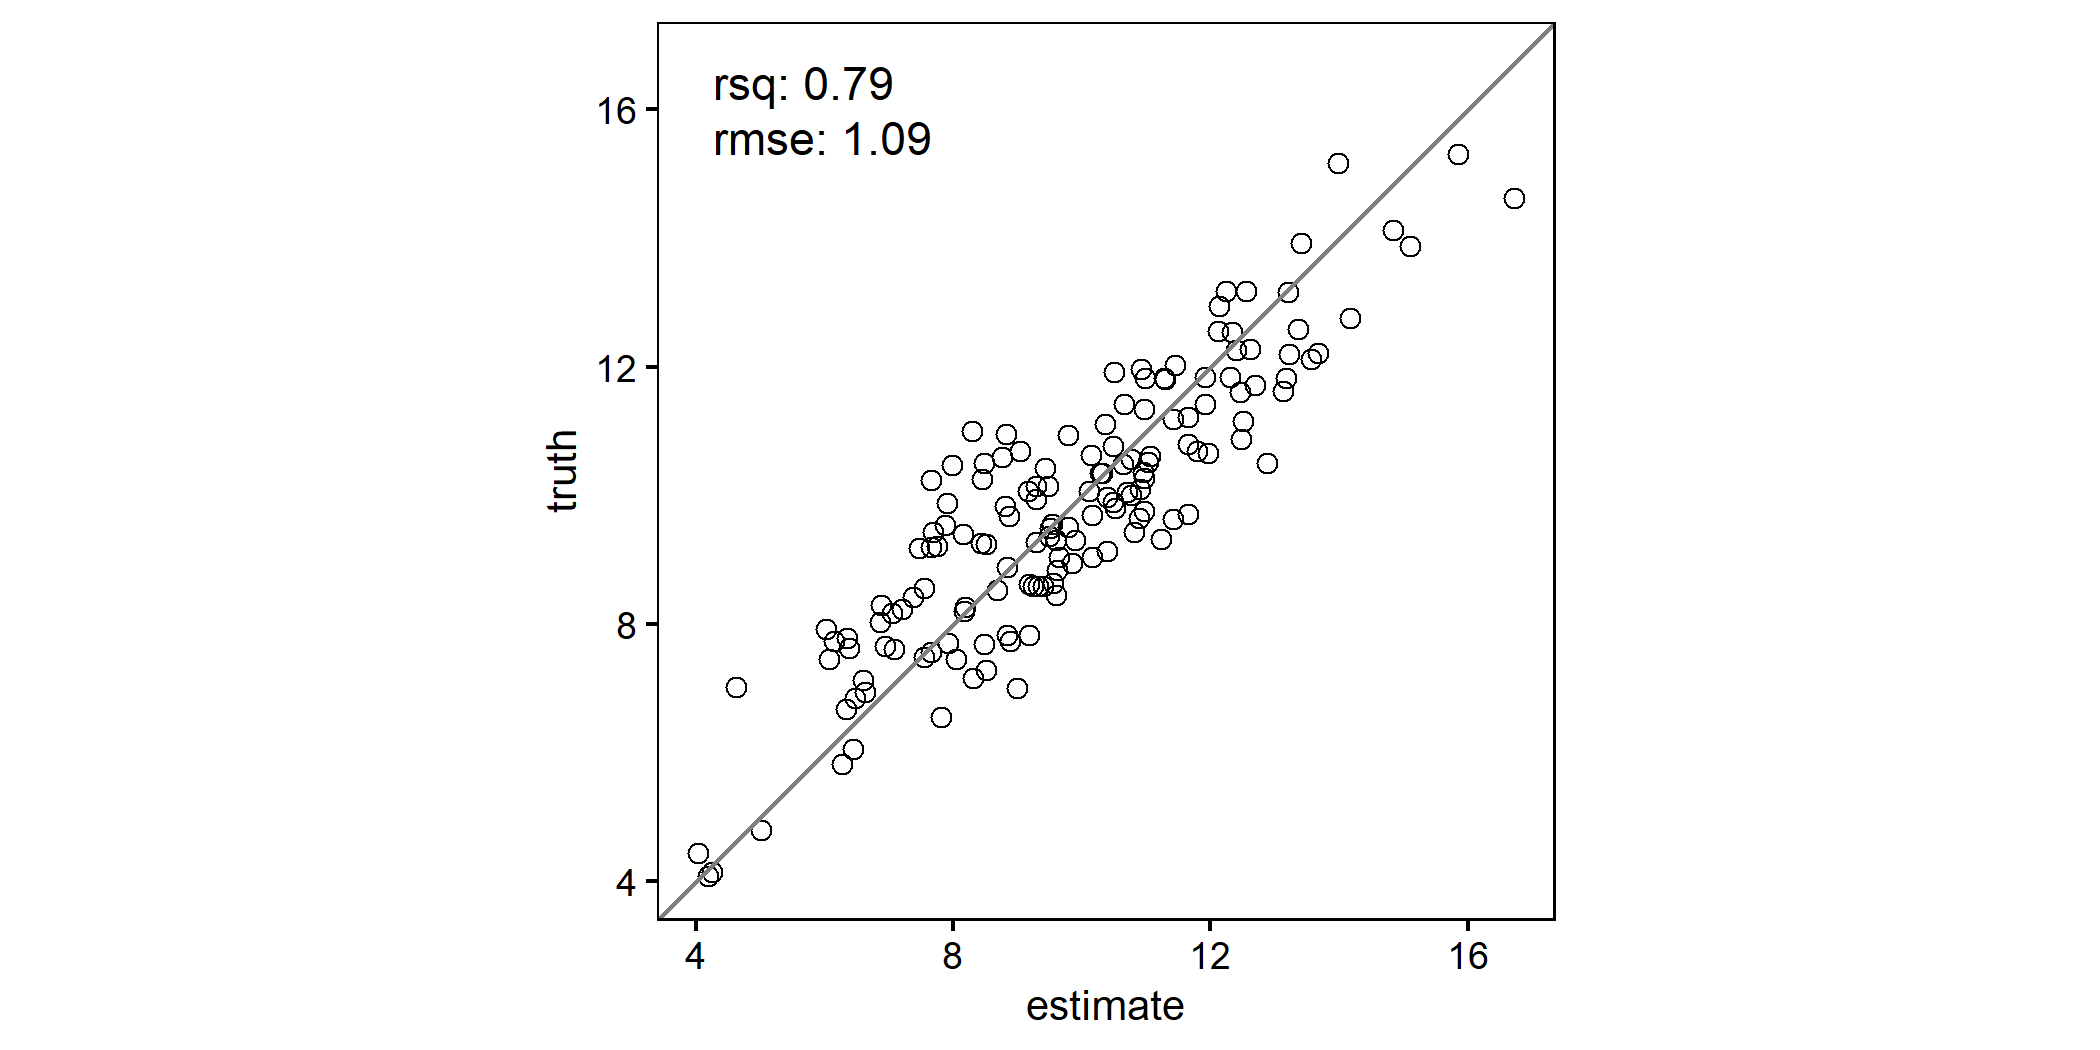
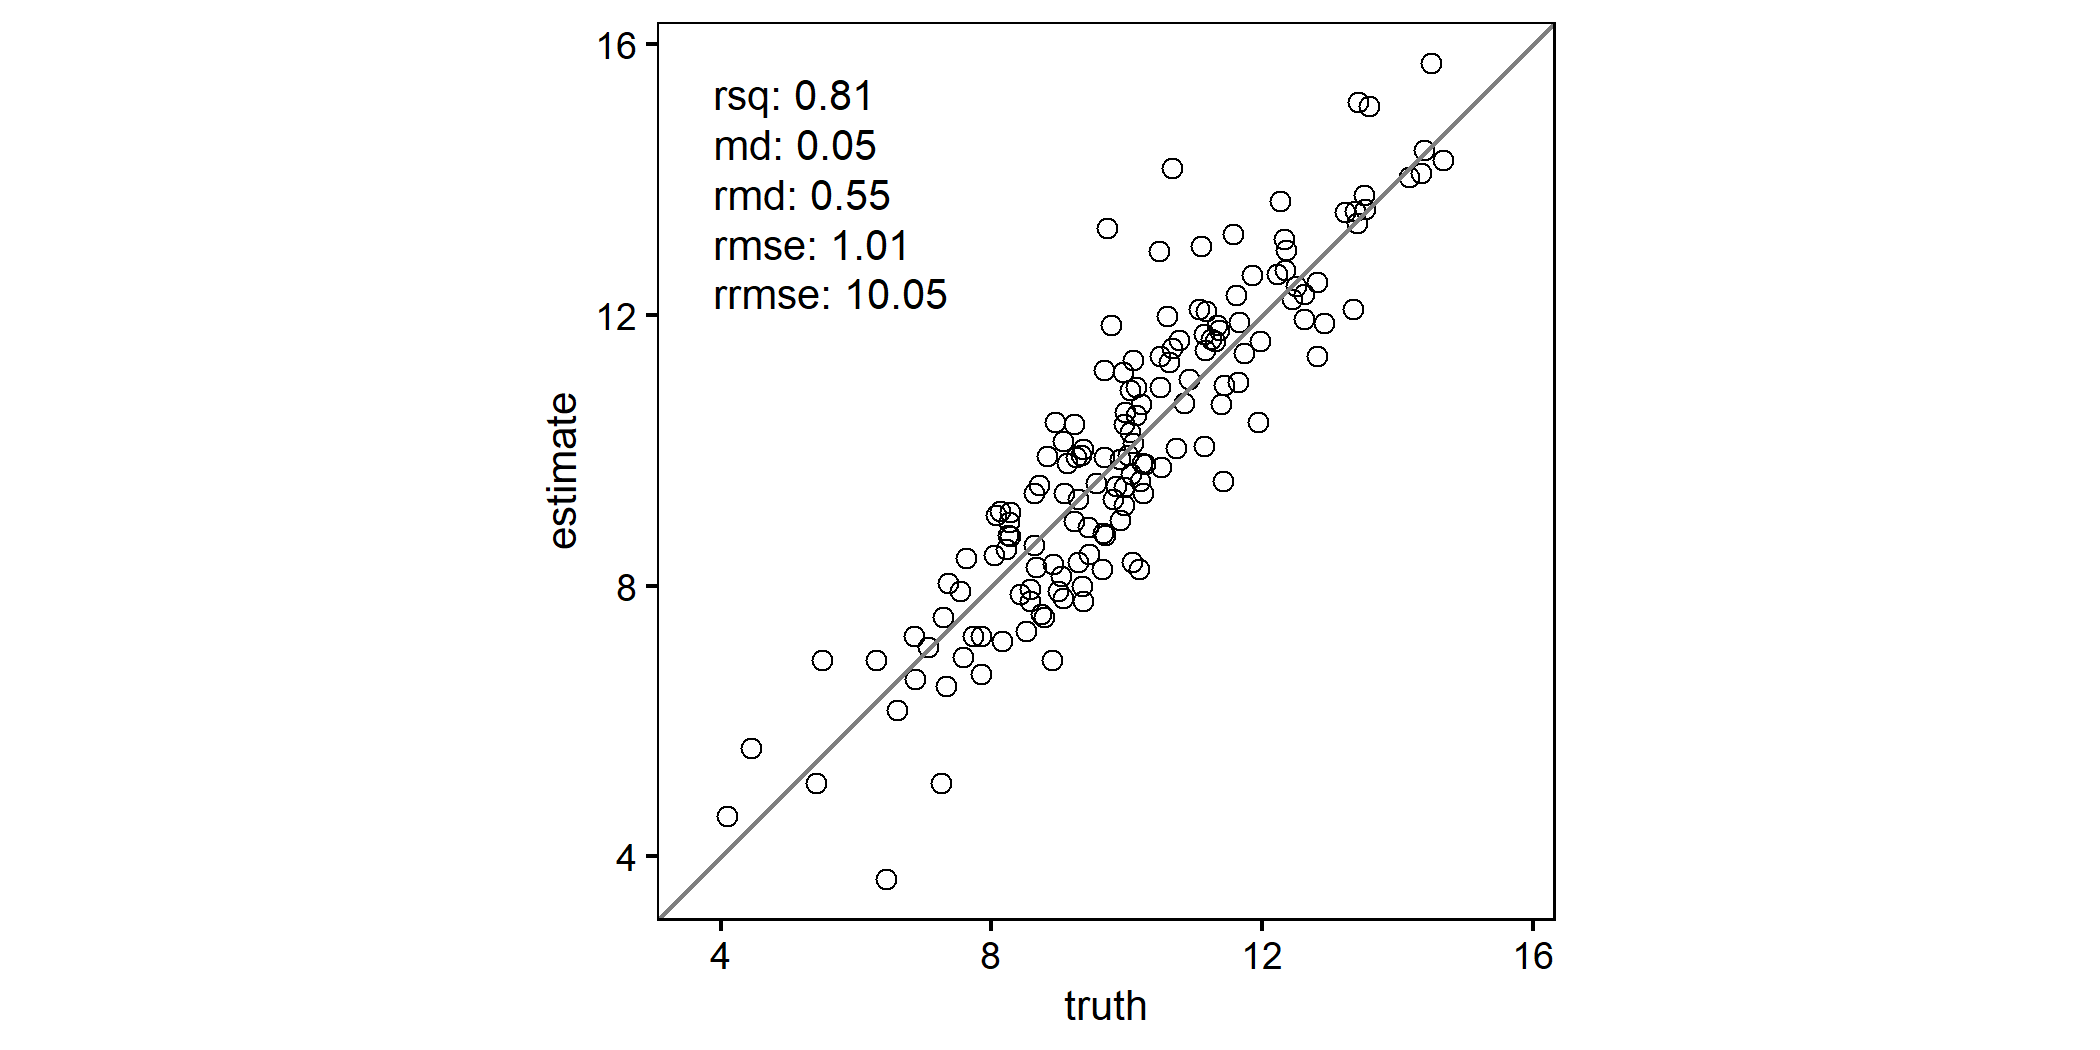
site rebuilt to include changes in readme

diff --git a/README.md b/README.md
@@ -19,11 +19,11 @@ version that would meet these specific needs:
 
 - Ensure the plot is always square.
 - Include a 1:1 reference line.
-- Display “predicted” values on the x-axis.
 - Provide an optional text panel showing agreement statistics, allowing
   an easy customization of the metrics included.
 - Seamlessly handle grouped data, creating faceted plots with minimal
   effort.
+- Automatically switch to density-colored points to reduce overplotting
 
 # Installation
 
@@ -34,7 +34,7 @@ library(scatter)
 
 # Examples
 
-Simple scatterplot with R² and RMSE
+Simple scatterplot with default set of agreement metrics:
 
 ``` r
 library(dplyr)
@@ -49,23 +49,38 @@ tibble(
   group2 = rep(c("D1", "D2"), each = 75),          
 )
 
-scatter(df, truth, estimate, metrics=list(rsq,rmse))
+scatter(df, truth, estimate)
 ```
 
 ![](man/figures/unnamed-chunk-3-1.png)<!-- -->
 
-Scatterplot for grouped data with agreement metrics
+Metric names can be easily modified:
 
 ``` r
-df %>%
-  group_by(group) %>%
-  scatter(truth, estimate, metrics=list(rsq,rmse,mape,msd))
+mymetrics <- list(
+  "R²" = rsq,
+  "bias" = md,
+  "bias%" = rmd,
+  "RMSE" = rmse,
+  "RMSE%" = rrmse
+)
+scatter(df, truth, estimate, metrics=mymetrics)
 ```
 
 ![](man/figures/unnamed-chunk-4-1.png)<!-- -->
 
+Scatterplot for grouped data with agreement metrics:
+
+``` r
+df %>%
+  group_by(group) %>%
+  scatter(truth, estimate, metrics=list("R²"=rsq,rmse,mape,msd))
+```
+
+![](man/figures/unnamed-chunk-5-1.png)<!-- -->
+
 Scatterplot for grouped data with agreement metrics positioned outside
-the plots.
+the plots:
 
 ``` r
 df %>%
@@ -73,4 +88,80 @@ df %>%
   scatter(truth, estimate, metrics=list(rsq,rmse), metrics_position = "outside")
 ```
 
-![](man/figures/unnamed-chunk-5-1.png)<!-- -->
+![](man/figures/unnamed-chunk-6-1.png)<!-- -->
+
+## Scatterplots with large datasets
+
+When working with large datasets, heavy overplotting can obscure the
+underlying data distribution and make it difficult to identify
+systematic patterns, biases, or outliers. To address this, `scatter()`
+supports density-colored points (`ggpointdensity::geom_pointdensity()`).
+This approach colors points by their local density, revealing the
+structure of dense regions while still retaining individual
+observations.
+
+The example below compares a standard scatterplot with a density-colored
+version for the same large dataset.
+
+``` r
+library(patchwork)
+set.seed(123)
+df2 <- tibble(
+  truth = rnorm(50000, 20, 4),
+  estimate = truth + rnorm(50000, 0, 2)
+)
+
+p1 <- scatter(
+  df2, truth, estimate,
+  point_style = "point",
+  points_alpha = 0.3,
+  points_size = 1
+) +
+  ggtitle("Standard scatterplot")
+
+p2 <- scatter(
+  df2, truth, estimate,
+  point_style = "pointdensity",
+) +
+  ggtitle("Density-colored scatterplot")
+
+p1 + p2
+```
+
+![](man/figures/unnamed-chunk-7-1.png)<!-- -->
+
+For convenience, `scatter()` can also switch to this behavior
+automatically using `point_style = "auto"` (default), which enables
+density coloring once the number of observations exceeds a configurable
+threshold.
+
+## Axis orientation: observed vs. predicted
+
+By default, `scatter()` places observed (truth) values on the x-axis and
+predicted (estimate) values on the y-axis. This follows recommendations
+in the modelling literature, but users can easily switch back to the
+alternative convention (predicted on x) using `swap_axes = TRUE`.
+
+The most influential position on this topic, published by [Piñeiro et
+al. (2008)](https://www.sciencedirect.com/science/article/pii/S0304380008002305),
+argues that observed values should be placed on the x-axis to improve
+the interpretability of regression diagnostics and model evaluation,
+based on the idea that predictions are conditioned on observations.
+However, [Pauwels et
+al. (2019)](https://www.sciencedirect.com/science/article/pii/S0304380019303102?via%3Dihub)
+subsequently revisited this argument and pointed out that parts of this
+reasoning are conceptually flawed, showing that the choice of axis
+orientation does not have a universally correct solution and can
+influence interpretation depending on the modelling context and
+analytical objective.
+
+Importantly, axis orientation in `scatter()` affects only the
+visualization; agreement metrics are always computed using the original
+(truth, estimate) pairing (compare the figure below with the top-most
+scatterplot):
+
+``` r
+scatter(df, truth, estimate, swap_axes = TRUE)
+```
+
+![](man/figures/unnamed-chunk-8-1.png)<!-- -->

diff --git a/NEWS.md b/NEWS.md
@@ -1,8 +1,8 @@
-## v0.1.12
+# scatter 0.1.12
 - Axis orientation — truth (observed) is now placed on the x-axis by default, with an option to restore the previous behavior using swap_axes = TRUE. Axis orientation affects only the visual layout; agreement metrics are computed consistently as metric(truth, estimate).
 - Default point shapes enhanced — when point_style = "pointdensity", the default shape is now a filled circle (shape = 16) for improved visibility. For regular point mode, the default remains an open circle (shape = 1). User-supplied shapes continue to override both defaults.
 
-## v0.1.11
+# scatter 0.1.11
 - Added support for density-based scatter plots using `geom_pointdensity()`.
 - New arguments: `point_style`, `density_scale`, and extended color control via `...`.
 - Improved legend and color scaling behavior across facets.
